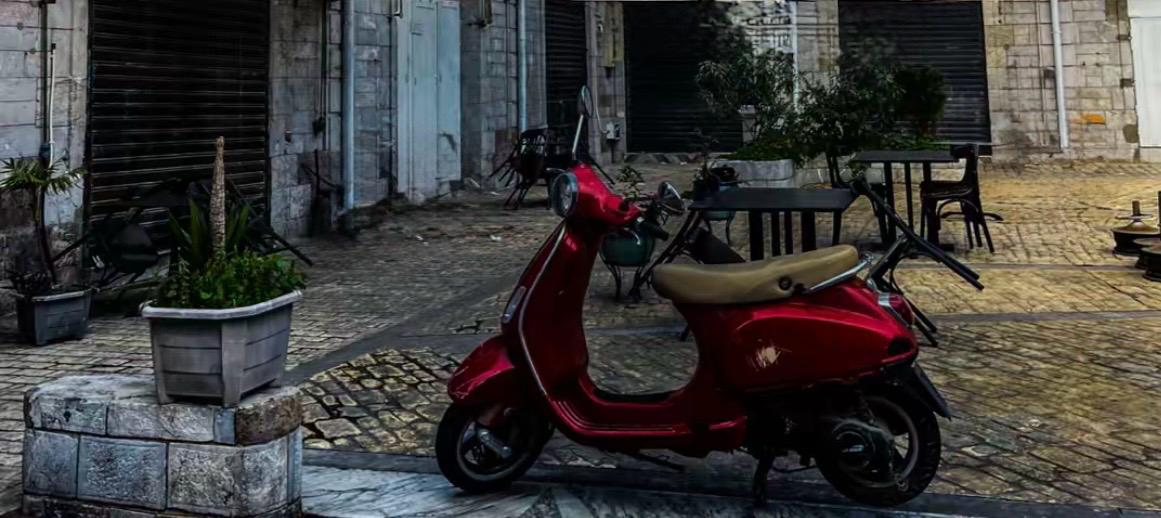
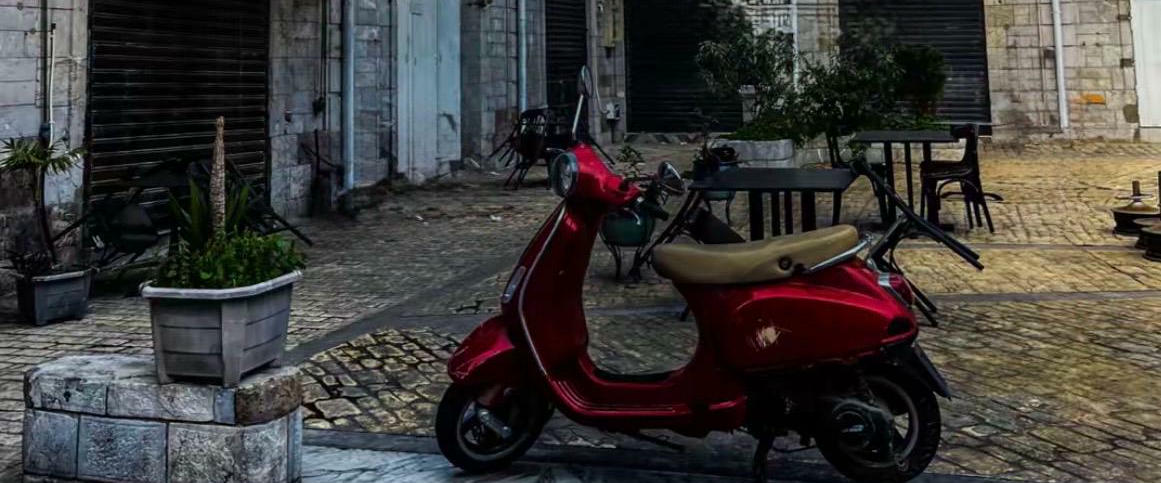
Mise à jour des pages DevenirHote et Vehicules, ainsi que des images associées

diff --git a/src/pages/DevenirHote.tsx b/src/pages/DevenirHote.tsx
@@ -5,6 +5,9 @@ import { Home, Car, Palmtree, TrendingUp, Shield, Users, CheckCircle, ArrowRight
 import { Link, useNavigate } from "react-router-dom";
 import { useAuth } from "../context/AuthContext";
 import { useLanguage } from "../context/LanguageContext";
+import image1 from "../assets/images/1.jpg";
+import image2 from "../assets/images/2.jpg";
+import image3 from "../assets/images/3.jpg";
 
 export default function DevenirHote() {
   const navigate = useNavigate();
@@ -109,7 +112,7 @@ export default function DevenirHote() {
       <section className="relative text-white overflow-hidden py-16 sm:py-24">
         <div className="absolute inset-0">
           <ImageWithFallback
-            src="https://images.unsplash.com/photo-1467269204594-9661b134dd2b?w=1600"
+            src={image1}
             alt="Paysage pour devenir hote"
             className="w-full h-full object-cover"
           />
@@ -209,7 +212,7 @@ export default function DevenirHote() {
       <section className="relative py-16 sm:py-20 border-y border-border overflow-hidden">
         <div className="absolute inset-0">
           <ImageWithFallback
-            src="https://images.unsplash.com/photo-1469474968028-56623f02e42e?w=1600"
+            src={image2}
             alt="Paysage Algérie"
             className="w-full h-full object-cover"
           />
@@ -253,7 +256,7 @@ export default function DevenirHote() {
       <section className="relative py-20 text-white text-center overflow-hidden">
         <div className="absolute inset-0">
           <ImageWithFallback
-            src="https://images.unsplash.com/photo-1505693416388-ac5ce068fe85?w=1600"
+            src={image3}
             alt="Maison confortable"
             className="w-full h-full object-cover"
           />

diff --git a/src/pages/Vehicules.tsx b/src/pages/Vehicules.tsx
@@ -11,6 +11,7 @@ import { addFavoriteApi, ApiListing, getFavoriteIdsApi, getListingsApi, removeFa
 import { formatListingRating } from "../lib/listingRatings";
 import { useLanguage } from "../context/LanguageContext";
 import { ALGERIA_WILAYAS, matchesWilaya, normalizeText, normalizeWilayaValue } from "../constants/wilayas";
+import vehiculesImage from "../assets/images/vehicules.jpg";
 
 function parseDetails(details: string | null): Record<string, unknown> | null {
   if (!details) {
@@ -210,7 +211,7 @@ export default function Vehicules() {
       <section className="relative text-white py-12 sm:py-16 overflow-hidden">
         <div className="absolute inset-0">
           <ImageWithFallback
-            src="https://images.unsplash.com/photo-1494976388531-d1058494cdd8?w=1600"
+            src={vehiculesImage}
             alt="Véhicules sur la route"
             className="w-full h-full object-cover"
           />
